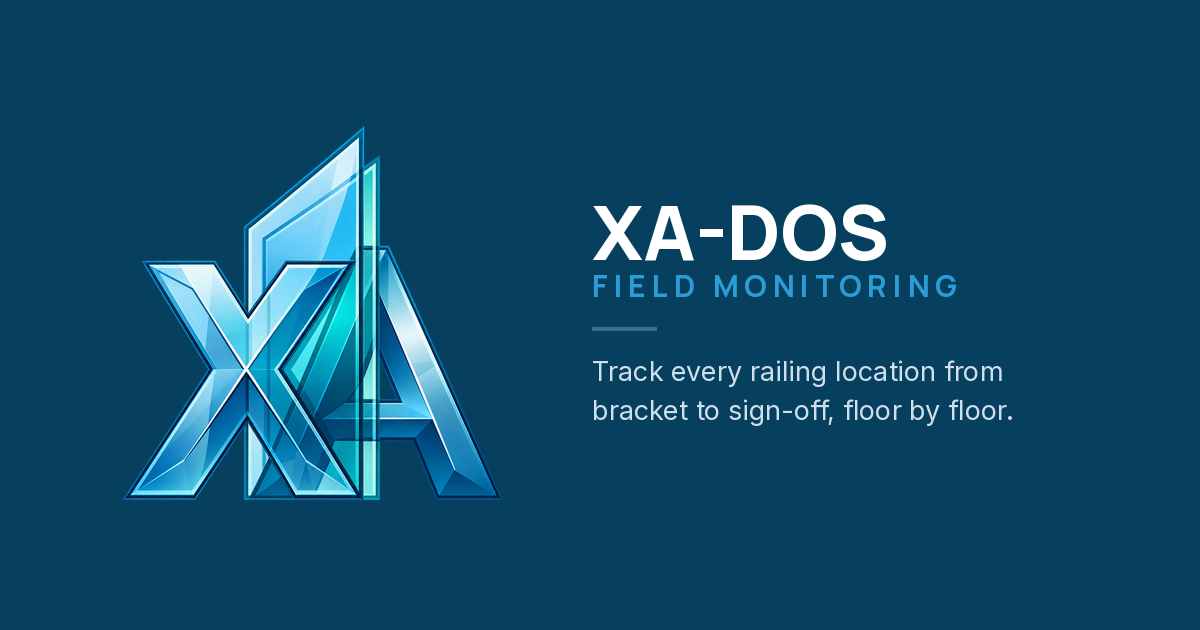
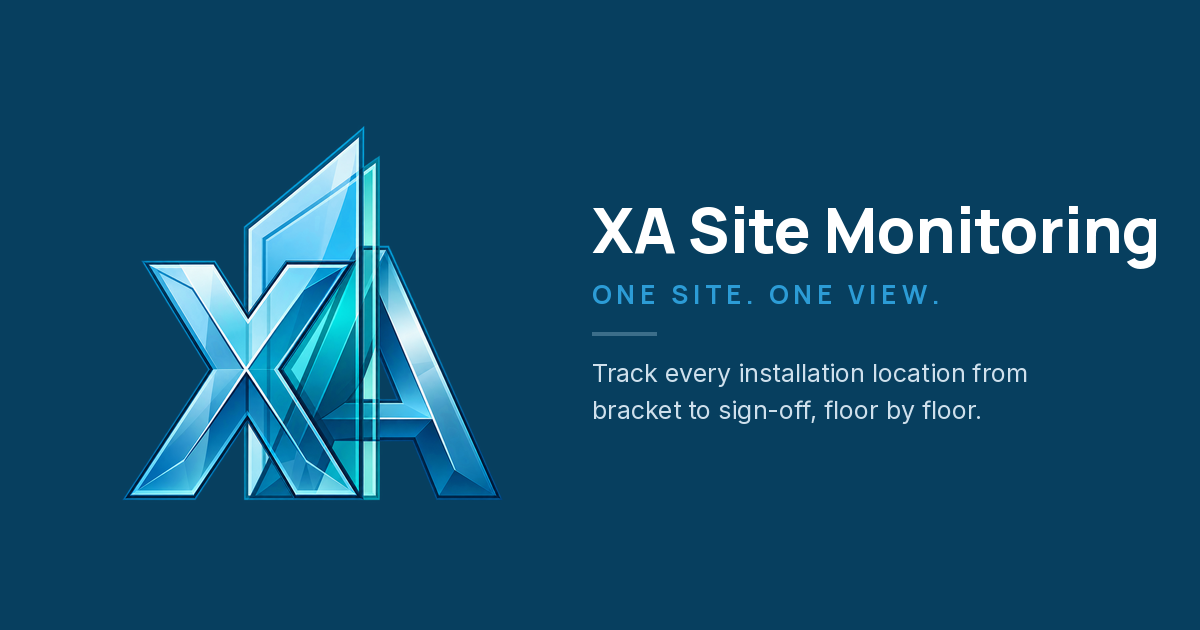
Rebrand in-app text from "XA-DOS Field Monitoring" to "XA Site Monitoring"
XA DOS (the main app) is claiming the "DOS" name; standalone apps like
this one follow the "XA <App Name>" pattern instead (matching XA
PhotoLog, XA Gantt Scheduling, etc.). Renames this app's own identity
wherever it appears as product branding:

- index.html title/meta, manifest.webmanifest name/short_name,
  og-image.png (rebuilt with the new name + the product's own approved
  tagline "One Site. One View." — xa-dos-design-studio's Field
  Monitoring product entry)
- Splash, Login, Reset Password, Change Password screens' brand mark
  and tagline
- MorePage's "About XA DOS" -> "About XA Site Monitoring"
- README title and stale design/nav notes

Left unchanged on purpose: every reference that means the actual XA
DOS platform/backend rather than this app's own name — "Sign in with
your XA DOS account," "the real XA DOS Supabase project," and the
"XA DOS Windows Monitoring module" this app was split out from. Also
fixed the missing max-w-md tablet wrapper on the main Sign In screen
(LoginPage) that an earlier pass missed, and refreshed the tagline
copy from "railing" to "installation" locations to match scope
coverage elsewhere.

Claude-Session: https://claude.ai/code/session_01Ca7RXB5iLqjVFYhMwX2DeN

Changed region(s): [[0.4933, 0.3016, 0.9867, 0.4825], [0.4933, 0.573, 0.8633, 0.6937], [0.4933, 0.5127, 0.555, 0.5429]]

diff --git a/index.html b/index.html
@@ -15,18 +15,18 @@
     <meta name="mobile-web-app-capable" content="yes">
     <meta name="apple-mobile-web-app-capable" content="yes">
     <meta name="apple-mobile-web-app-status-bar-style" content="default">
-    <meta name="apple-mobile-web-app-title" content="XA-DOS Field Monitoring">
-    <title>XA-DOS Field Monitoring</title>
+    <meta name="apple-mobile-web-app-title" content="XA Site Monitoring">
+    <title>XA Site Monitoring</title>
 
     <!-- Link-preview cards (WhatsApp, iMessage, Slack, etc.) -->
     <meta property="og:type" content="website" />
-    <meta property="og:title" content="XA-DOS Field Monitoring" />
-    <meta property="og:description" content="Track every railing location from bracket to sign-off, floor by floor." />
+    <meta property="og:title" content="XA Site Monitoring" />
+    <meta property="og:description" content="Track every installation location from bracket to sign-off, floor by floor." />
     <meta property="og:image" content="https://glass-railing-installation-monitoring.netlify.app/og-image.png" />
     <meta property="og:url" content="https://glass-railing-installation-monitoring.netlify.app/" />
     <meta name="twitter:card" content="summary_large_image" />
-    <meta name="twitter:title" content="XA-DOS Field Monitoring" />
-    <meta name="twitter:description" content="Track every railing location from bracket to sign-off, floor by floor." />
+    <meta name="twitter:title" content="XA Site Monitoring" />
+    <meta name="twitter:description" content="Track every installation location from bracket to sign-off, floor by floor." />
     <meta name="twitter:image" content="https://glass-railing-installation-monitoring.netlify.app/og-image.png" />
 
     <link rel="preconnect" href="https://fonts.googleapis.com">

diff --git a/src/pages/LoginPage.tsx b/src/pages/LoginPage.tsx
@@ -54,7 +54,7 @@ export default function LoginPage() {
     return (
       <div className="mx-auto flex min-h-screen w-full max-w-md flex-col justify-center bg-white px-6 py-12">
         <div className="mb-8 text-center">
-          <p className="text-xs font-bold uppercase tracking-[0.2em] text-xa-blue">XA-DOS</p>
+          <p className="text-xs font-bold uppercase tracking-[0.2em] text-xa-blue">XA Site Monitoring</p>
           <h1 className="mt-1 font-display text-2xl font-extrabold text-xa-navy">Reset password</h1>
           <p className="mt-1 text-sm text-xa-slate">
             {resetSent
@@ -108,11 +108,11 @@ export default function LoginPage() {
   }
 
   return (
-    <div className="flex min-h-screen flex-col justify-center bg-white px-6 py-12">
+    <div className="mx-auto flex min-h-screen w-full max-w-md flex-col justify-center bg-white px-6 py-12">
       <div className="mb-8 text-center">
-        <p className="text-xs font-bold uppercase tracking-[0.2em] text-xa-blue">XA-DOS</p>
+        <p className="text-xs font-bold uppercase tracking-[0.2em] text-xa-blue">XA Site Monitoring</p>
         <h1 className="mt-1 font-display text-2xl font-extrabold text-xa-navy">Sign in</h1>
-        <p className="mt-1 text-sm text-xa-slate">Field Monitoring</p>
+        <p className="mt-1 text-sm text-xa-slate">One Site. One View.</p>
       </div>
 
       <form onSubmit={handleLogin} className="space-y-4">

diff --git a/src/pages/SplashPage.tsx b/src/pages/SplashPage.tsx
@@ -11,12 +11,12 @@ export default function SplashPage() {
         <div className="mb-6 flex h-20 w-20 items-center justify-center rounded-3xl bg-white/10 backdrop-blur">
           <GanttChartSquare size={40} />
         </div>
-        <h1 className="font-display text-3xl font-extrabold tracking-tight">XA-DOS</h1>
+        <h1 className="font-display text-3xl font-extrabold tracking-tight">XA Site Monitoring</h1>
         <p className="mt-2 text-sm font-medium uppercase tracking-[0.2em] text-blue-200">
-          Field Monitoring
+          One Site. One View.
         </p>
         <p className="mt-4 max-w-[26ch] text-sm text-blue-100">
-          Track every railing location from bracket to sign-off, floor by floor.
+          Track every installation location from bracket to sign-off, floor by floor.
         </p>
       </div>
 

diff --git a/src/pages/ChangePasswordPage.tsx b/src/pages/ChangePasswordPage.tsx
@@ -40,7 +40,7 @@ export default function ChangePasswordPage() {
   return (
     <div className="mx-auto flex min-h-screen w-full max-w-md flex-col justify-center bg-white px-6 py-12">
       <div className="mb-8 text-center">
-        <p className="text-xs font-bold uppercase tracking-[0.2em] text-xa-blue">XA-DOS</p>
+        <p className="text-xs font-bold uppercase tracking-[0.2em] text-xa-blue">XA Site Monitoring</p>
         <h1 className="mt-1 font-display text-2xl font-extrabold text-xa-navy">Set a new password</h1>
         <p className="mt-1 text-sm text-xa-slate">
           For your security, set your own password before continuing.

diff --git a/src/pages/ResetPasswordPage.tsx b/src/pages/ResetPasswordPage.tsx
@@ -70,7 +70,7 @@ export default function ResetPasswordPage() {
   return (
     <div className="mx-auto flex min-h-screen w-full max-w-md flex-col justify-center bg-white px-6 py-12">
       <div className="mb-8 text-center">
-        <p className="text-xs font-bold uppercase tracking-[0.2em] text-xa-blue">XA-DOS</p>
+        <p className="text-xs font-bold uppercase tracking-[0.2em] text-xa-blue">XA Site Monitoring</p>
         <h1 className="mt-1 font-display text-2xl font-extrabold text-xa-navy">Set a new password</h1>
       </div>
 

diff --git a/src/pages/MorePage.tsx b/src/pages/MorePage.tsx
@@ -107,7 +107,7 @@ export default function MorePage() {
 
         <button className="flex w-full items-center justify-between rounded-2xl border border-xa-line bg-white p-4 shadow-card">
           <span className="flex items-center gap-3 text-sm font-bold text-xa-navy">
-            <Info size={18} className="text-xa-blue" /> About XA DOS
+            <Info size={18} className="text-xa-blue" /> About XA Site Monitoring
           </span>
           <ChevronRight size={18} className="text-slate-400" />
         </button>

diff --git a/src/types/index.ts b/src/types/index.ts
@@ -1,5 +1,5 @@
 // ---------------------------------------------------------------------------
-// XA DOS — Glass Railing Installation Monitoring
+// XA Site Monitoring — Glass Railing Installation Monitoring
 // Shared domain types. This is the single source of truth for the data
 // model. Services return these shapes whether the data comes from mock
 // arrays (now) or Supabase (later) — pages never need to know the difference.

diff --git a/README.md b/README.md
@@ -1,4 +1,4 @@
-# XA DOS — Glass Railing Installation Monitoring
+# XA Site Monitoring — Glass Railing Installation Monitoring
 
 A standalone, mobile-first web app for tracking glass railing installation
 progress in the field — separate from the existing XA DOS Windows
@@ -90,14 +90,14 @@ Installation Checklist / Photos / QC Inspection / Punch List / Notes &
 Comments / Timeline / Update Status → Owner Dashboard → Kanban Production
 Board (optional view, management roles only).
 
-Bottom navigation: Home · Floors · Tasks · Dashboard · More. Owner
-Dashboard and the Kanban board are gated to Project Manager / Owner (Kanban
-also allows Foreman) and are hidden from Installer accounts via
-`ProtectedRoute`.
+Bottom navigation: Home · Floors · Tasks · Activity · More. Owner
+Dashboard and the Production Board are gated to Project Manager / Owner
+(Production Board also allows Foreman) and are hidden from Installer
+accounts via `ProtectedRoute`.
 
 ## Design
 
-Clean XA DOS navy-and-white palette (`#0B3D66` navy, `#1D6FE0` action blue,
-`#EAF2FE` tint) with Fieldwire-style task cards: large touch targets, bold
+Clean XA-approved palette (`#073F5F` navy, `#0A5C8A` action blue,
+`#E1EEF4` tint — XA Design Studio DR-0003) with Fieldwire-style task cards: large touch targets, bold
 status-colored badges (one distinct color per one of the six locked
 statuses), bottom tab bar, minimal typing anywhere in the field flow.
